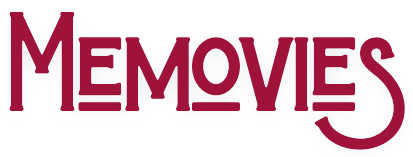
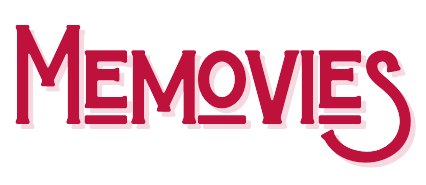
#6/#23/feat: add a new logotype and optimize the size for it in header and footer

diff --git a/src/components/layout/header.tsx b/src/components/layout/header.tsx
@@ -1,6 +1,5 @@
 import React from "react";
 import { Logotype } from "../ui/logotype";
-import { Navbar } from "../ui/navbar";
 import Link from "next/link";
 import MaxWidthWrapper from "./max-width-wrapper";
 
@@ -10,7 +9,7 @@ export const Header = () => {
       <MaxWidthWrapper>
         <nav className="w-full flex items-center rounded shadow-lg py-3 px-3 z-[100] h-14 inset-x-0 border-b border-gray-200 bg-white/55 backdrop-blur-lg transition-all">
           <Link href="/">
-            <Logotype className="cursor-pointer"></Logotype>
+            <Logotype className={"w-30 h-20"}></Logotype>
           </Link>
         </nav>
       </MaxWidthWrapper>

diff --git a/src/components/layout/footer.tsx b/src/components/layout/footer.tsx
@@ -18,9 +18,7 @@ export const Footer = () => {
       <MaxWidthWrapper className="bg-background-secondary h-min-50 rounded p-5 grid grid-cols-2 gap-5 md:gap-3 justify-between">
         <section className="flex flex-col gap-3 col-span-2 md:col-span-1 ">
           <Link href="/">
-            <figure className="w-50 h-30 flex items-center">
-              <Logotype className="cursor-pointer object-cover"></Logotype>
-            </figure>
+            <Logotype className={"w-50 h-30"}></Logotype>
           </Link>
           <h3 className="font-secondary text-lg font-semibold">
             Timeless movies, endless memories
